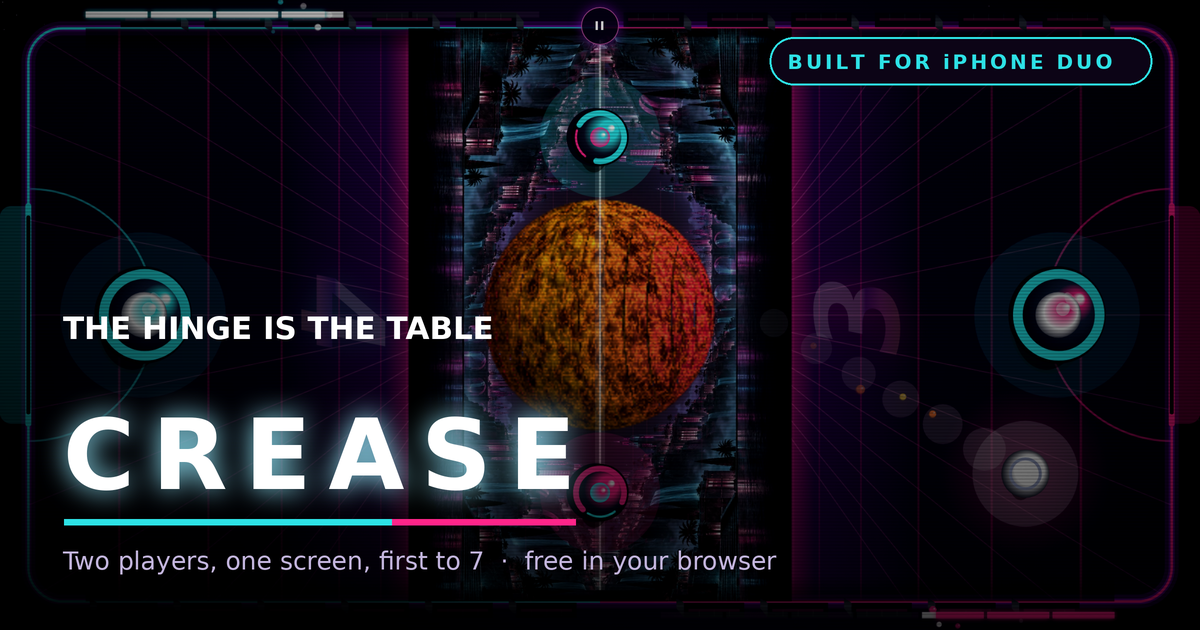
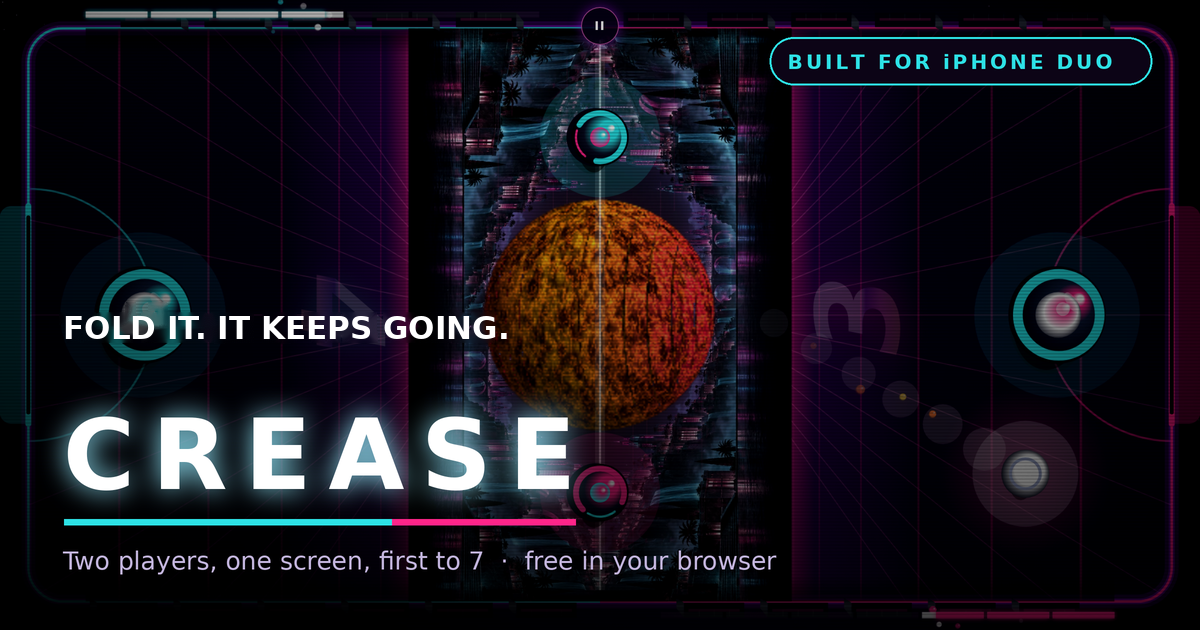
Remove "the hinge is the table" from the live site
That line is physically false: the hinge is a fold, not a table. It was in
the Google description, the share text, the share-card image, the app
manifest, the video sitemap and the FAQ.

Replaced with the launch wording already posted on X, Instagram, TikTok and
Facebook: open it, two players, one on each side; close it, you vs the CPU;
fold it mid-match and the game keeps going.

og.png: same image; only the headline changed to "FOLD IT. IT KEEPS GOING."

Claude-Session: https://claude.ai/code/session_01MWB9oQA4tP1N26JVwMRgtc

Changed region(s): [[0.0308, 0.4825, 0.4317, 0.5429]]

diff --git a/index.html b/index.html
@@ -8,10 +8,10 @@
 <meta name="apple-mobile-web-app-status-bar-style" content="black-translucent">
 <meta name="apple-mobile-web-app-title" content="CREASE">
 <meta name="theme-color" content="#07020f">
-<meta name="description" content="The hinge is the table. CREASE is free neon air hockey built fold-first for the iPhone Duo: one screen, two players, first to 7. Play solo, hand the phone over, or match online — in your browser, or add it to your home screen and play it like an app.">
+<meta name="description" content="Free neon air hockey for the iPhone Duo. Open it: full table, two players, one on each side. Close it: pocket table, you vs the CPU. Fold it mid-match and the game keeps going. First to 7. Play solo, hand the phone over, or match online — in your browser, or add it to your home screen and play it like an app.">
 <title>CREASE — The iPhone Duo Air Hockey Game</title>
 <meta property="og:title" content="CREASE — The iPhone Duo Air Hockey Game">
-<meta property="og:description" content="The hinge is the table. Free neon air hockey built fold-first for the iPhone Duo — two players, one screen, first to 7. Solo, pass-and-play, or online.">
+<meta property="og:description" content="Free neon air hockey for the iPhone Duo. Open it: two players, one on each side. Close it: you vs the CPU. Fold it mid-match and the game keeps going. First to 7.">
 <meta property="og:type" content="website">
 <meta property="og:url" content="https://prodbykctw-max.github.io/crease-iphone-duo/">
 <style>
@@ -167,13 +167,13 @@ button:focus-visible{outline:2px solid var(--p1);outline-offset:4px}
 <meta property="og:image:alt" content="CREASE neon air hockey table, the crease running down the middle of the screen">
 <meta name="twitter:card" content="summary_large_image">
 <meta name="twitter:title" content="CREASE — The iPhone Duo Air Hockey Game">
-<meta name="twitter:description" content="The hinge is the table. Free neon air hockey built fold-first for the iPhone Duo — two players, one screen, first to 7. Solo, pass-and-play, or online.">
+<meta name="twitter:description" content="Free neon air hockey for the iPhone Duo. Open it: two players, one on each side. Close it: you vs the CPU. Fold it mid-match and the game keeps going. First to 7.">
 <meta name="twitter:image" content="https://prodbykctw-max.github.io/crease-iphone-duo/og.png">
 <link rel="icon" href="favicon.ico" sizes="32x32">
 <link rel="icon" type="image/png" sizes="192x192" href="icon-192.png">
 <link rel="apple-touch-icon" sizes="180x180" href="apple-touch-icon.png">
 <link rel="manifest" href="manifest.webmanifest">
-<script type="application/ld+json">[{"@context": "https://schema.org", "@type": "VideoGame", "name": "CREASE", "alternateName": "CREASE — Free Two-Player Air Hockey", "url": "https://prodbykctw-max.github.io/crease-iphone-duo/", "image": "https://prodbykctw-max.github.io/crease-iphone-duo/og.png", "description": "CREASE is a free two-player neon air hockey game in your browser. One screen, two players, first to 7. Solo vs CPU in portrait, head-to-head in landscape. Built for foldable phones like the iPhone Duo by prodbyKCTW.", "genre": ["Arcade", "Sports"], "gamePlatform": ["Web browser", "iOS Safari", "Android Chrome"], "applicationCategory": "Game", "operatingSystem": "Any", "playMode": ["SinglePlayer", "MultiPlayer"], "numberOfPlayers": {"@type": "QuantitativeValue", "minValue": 1, "maxValue": 2}, "isAccessibleForFree": true, "offers": {"@type": "Offer", "price": "0", "priceCurrency": "USD"}, "author": {"@type": "Organization", "name": "prodbyKCTW", "url": "https://www.instagram.com/prodbykctw/", "founder": {"@type": "Person", "name": "Melvin D. Brown III"}}, "publisher": {"@type": "Organization", "name": "RARƎ AGENCY"}, "@id": "https://prodbykctw-max.github.io/crease-iphone-duo/#game", "datePublished": "2026-09-21", "inLanguage": "en-US", "screenshot": "https://prodbykctw-max.github.io/crease-iphone-duo/media/crease-fold-poster.jpg", "video": {"@id": "https://prodbykctw-max.github.io/crease-iphone-duo/#gameplay-video"}, "trailer": {"@id": "https://prodbykctw-max.github.io/crease-iphone-duo/#gameplay-video"}}, {"@context": "https://schema.org", "@type": "VideoObject", "@id": "https://prodbykctw-max.github.io/crease-iphone-duo/#gameplay-video", "name": "CREASE on the iPhone Duo — the hinge is the table", "description": "CREASE running fold-first on the iPhone Duo. Folded, the outer screen is a pocket table for one. Opened, the hinge becomes the centre line of a full air-hockey table with a player on each side, and the score carries across the fold.", "thumbnailUrl": ["https://prodbykctw-max.github.io/crease-iphone-duo/media/crease-fold-poster.jpg", "https://prodbykctw-max.github.io/crease-iphone-duo/og.png"], "contentUrl": "https://prodbykctw-max.github.io/crease-iphone-duo/media/crease-fold.mp4", "encodingFormat": "video/mp4", "width": 1920, "height": 1080, "duration": "PT11S", "uploadDate": "2026-10-05T00:00:00-04:00", "isFamilyFriendly": true, "inLanguage": "en-US", "publisher": {"@type": "Organization", "name": "prodbyKCTW", "url": "https://www.instagram.com/prodbykctw/"}, "creator": {"@type": "Person", "name": "Melvin D. Brown III"}, "about": {"@id": "https://prodbykctw-max.github.io/crease-iphone-duo/#game"}}, {"@context": "https://schema.org", "@type": "FAQPage", "mainEntity": [{"@type": "Question", "name": "What is CREASE?", "acceptedAnswer": {"@type": "Answer", "text": "A free two-player neon air hockey game that runs in your browser — one screen, two players, first to 7. Solo vs CPU in portrait, head-to-head in landscape."}}, {"@type": "Question", "name": "Is CREASE free?", "acceptedAnswer": {"@type": "Answer", "text": "Yes. No download, no account, no payment."}}, {"@type": "Question", "name": "Can two people play on one phone?", "acceptedAnswer": {"@type": "Answer", "text": "Yes. Turn the phone to landscape; each player controls the paddle on their half of the screen."}}, {"@type": "Question", "name": "Does CREASE work on iPhone?", "acceptedAnswer": {"@type": "Answer", "text": "Yes — in Safari and as a home-screen app (Share → Add to Home Screen). It also runs in Android Chrome and desktop browsers."}}, {"@type": "Question", "name": "What is the iPhone Duo connection?", "acceptedAnswer": {"@type": "Answer", "text": "CREASE is built fold-first for Apple's foldable. The hinge is the center line of the table: folded, the outer screen is a pocket table for solo play; opened, the inner screen becomes a full table with one player on each side. Fold or unfold mid-match and the game carries your score across."}}, {"@type": "Question", "name": "Can I play CREASE online against other people?", "acceptedAnswer": {"@type": "Answer", "text": "Yes. Open Play online and tap QUICK MATCH to be paired with whoever else is looking for a game, or send a friend a room code to play them directly. It is free and runs in the browser with no account."}}, {"@type": "Question", "name": "What are SMASH and BUMP?", "acceptedAnswer": {"@type": "Answer", "text": "SMASH is flicking your paddle hard into the puck to speed it up. BUMP is bouncing the puck off the gold bumpers on the crease; scoring off one is a BANK SHOT."}}, {"@type": "Question", "name": "Who made CREASE?", "acceptedAnswer": {"@type": "Answer", "text": "prodbyKCTW — Melvin D. Brown III, an independent developer and producer in the Atlanta area, co-founder of RARƎ AGENCY."}}]}]</script>
+<script type="application/ld+json">[{"@context": "https://schema.org", "@type": "VideoGame", "name": "CREASE", "alternateName": "CREASE — Free Two-Player Air Hockey", "url": "https://prodbykctw-max.github.io/crease-iphone-duo/", "image": "https://prodbykctw-max.github.io/crease-iphone-duo/og.png", "description": "CREASE is a free two-player neon air hockey game in your browser. One screen, two players, first to 7. Solo vs CPU in portrait, head-to-head in landscape. Built for foldable phones like the iPhone Duo by prodbyKCTW.", "genre": ["Arcade", "Sports"], "gamePlatform": ["Web browser", "iOS Safari", "Android Chrome"], "applicationCategory": "Game", "operatingSystem": "Any", "playMode": ["SinglePlayer", "MultiPlayer"], "numberOfPlayers": {"@type": "QuantitativeValue", "minValue": 1, "maxValue": 2}, "isAccessibleForFree": true, "offers": {"@type": "Offer", "price": "0", "priceCurrency": "USD"}, "author": {"@type": "Organization", "name": "prodbyKCTW", "url": "https://www.instagram.com/prodbykctw/", "founder": {"@type": "Person", "name": "Melvin D. Brown III"}}, "publisher": {"@type": "Organization", "name": "RARƎ AGENCY"}, "@id": "https://prodbykctw-max.github.io/crease-iphone-duo/#game", "datePublished": "2026-09-21", "inLanguage": "en-US", "screenshot": "https://prodbykctw-max.github.io/crease-iphone-duo/media/crease-fold-poster.jpg", "video": {"@id": "https://prodbykctw-max.github.io/crease-iphone-duo/#gameplay-video"}, "trailer": {"@id": "https://prodbykctw-max.github.io/crease-iphone-duo/#gameplay-video"}}, {"@context": "https://schema.org", "@type": "VideoObject", "@id": "https://prodbykctw-max.github.io/crease-iphone-duo/#gameplay-video", "name": "CREASE — fold it mid-match and the game keeps going", "description": "CREASE gameplay. Closed, it is a pocket table: you vs the CPU. Opened, it is a full table with a player on each side. Fold it mid-match and the game keeps going, score and all.", "thumbnailUrl": ["https://prodbykctw-max.github.io/crease-iphone-duo/media/crease-fold-poster.jpg", "https://prodbykctw-max.github.io/crease-iphone-duo/og.png"], "contentUrl": "https://prodbykctw-max.github.io/crease-iphone-duo/media/crease-fold.mp4", "encodingFormat": "video/mp4", "width": 1920, "height": 1080, "duration": "PT11S", "uploadDate": "2026-10-05T00:00:00-04:00", "isFamilyFriendly": true, "inLanguage": "en-US", "publisher": {"@type": "Organization", "name": "prodbyKCTW", "url": "https://www.instagram.com/prodbykctw/"}, "creator": {"@type": "Person", "name": "Melvin D. Brown III"}, "about": {"@id": "https://prodbykctw-max.github.io/crease-iphone-duo/#game"}}, {"@context": "https://schema.org", "@type": "FAQPage", "mainEntity": [{"@type": "Question", "name": "What is CREASE?", "acceptedAnswer": {"@type": "Answer", "text": "A free two-player neon air hockey game that runs in your browser — one screen, two players, first to 7. Solo vs CPU in portrait, head-to-head in landscape."}}, {"@type": "Question", "name": "Is CREASE free?", "acceptedAnswer": {"@type": "Answer", "text": "Yes. No download, no account, no payment."}}, {"@type": "Question", "name": "Can two people play on one phone?", "acceptedAnswer": {"@type": "Answer", "text": "Yes. Turn the phone to landscape; each player controls the paddle on their half of the screen."}}, {"@type": "Question", "name": "Does CREASE work on iPhone?", "acceptedAnswer": {"@type": "Answer", "text": "Yes — in Safari and as a home-screen app (Share → Add to Home Screen). It also runs in Android Chrome and desktop browsers."}}, {"@type": "Question", "name": "What is the iPhone Duo connection?", "acceptedAnswer": {"@type": "Answer", "text": "CREASE is made for Apple's foldable. Closed, the outer screen is a pocket table: you vs the CPU. Opened, the inner screen is a full table with one player on each side, and the center line runs down the fold. Fold or unfold mid-match and the game keeps going, score and all."}}, {"@type": "Question", "name": "Can I play CREASE online against other people?", "acceptedAnswer": {"@type": "Answer", "text": "Yes. Open Play online and tap QUICK MATCH to be paired with whoever else is looking for a game, or send a friend a room code to play them directly. It is free and runs in the browser with no account."}}, {"@type": "Question", "name": "What are SMASH and BUMP?", "acceptedAnswer": {"@type": "Answer", "text": "SMASH is flicking your paddle hard into the puck to speed it up. BUMP is bouncing the puck off the gold bumpers on the crease; scoring off one is a BANK SHOT."}}, {"@type": "Question", "name": "Who made CREASE?", "acceptedAnswer": {"@type": "Answer", "text": "prodbyKCTW — Melvin D. Brown III, an independent developer and producer in the Atlanta area, co-founder of RARƎ AGENCY."}}]}]</script>
 </head>
 <body>
 <canvas id="cv" aria-label="CREASE game table"></canvas>
@@ -3114,6 +3114,6 @@ window.__crease = {
 };
 })();
 </script>
-<noscript><section id="about-crease"><h2>CREASE — free two-player air hockey</h2><p>CREASE is a free two-player neon air hockey game in your browser. One screen, two players, first to 7. Solo vs CPU in portrait, head-to-head in landscape. Built for foldable phones like the iPhone Duo by prodbyKCTW.</p><h3>FAQ</h3><p><strong>What is CREASE?</strong><br>A free two-player neon air hockey game that runs in your browser — one screen, two players, first to 7. Solo vs CPU in portrait, head-to-head in landscape.</p><p><strong>Is CREASE free?</strong><br>Yes. No download, no account, no payment.</p><p><strong>Can two people play on one phone?</strong><br>Yes. Turn the phone to landscape; each player controls the paddle on their half of the screen.</p><p><strong>Does CREASE work on iPhone?</strong><br>Yes — in Safari and as a home-screen app (Share → Add to Home Screen). It also runs in Android Chrome and desktop browsers.</p><p><strong>What is the iPhone Duo connection?</strong><br>CREASE is built fold-first for Apple&#x27;s foldable. The hinge is the center line of the table: folded, the outer screen is a pocket table for solo play; opened, the inner screen becomes a full table with one player on each side. Fold or unfold mid-match and your score carries across.</p><p><strong>Can I play online against other people?</strong><br>Yes. Open Play online and tap QUICK MATCH to be paired with whoever else is looking for a game, or send a friend a room code to play them directly. Free, no account.</p><p><strong>What are SMASH and BUMP?</strong><br>SMASH is flicking your paddle hard into the puck to speed it up. BUMP is bouncing the puck off the gold bumpers on the crease; scoring off one is a BANK SHOT.</p><p><strong>Who made CREASE?</strong><br>prodbyKCTW — Melvin D. Brown III, an independent developer and producer in the Atlanta area, co-founder of RARƎ AGENCY.</p><p><a href="https://prodbykctw-max.github.io/crease-iphone-duo/llms.txt">llms.txt</a> · <a href="https://github.com/prodbykctw-max/crease-iphone-duo">Source</a></p></section></noscript>
+<noscript><section id="about-crease"><h2>CREASE — free two-player air hockey</h2><p>CREASE is a free two-player neon air hockey game in your browser. One screen, two players, first to 7. Solo vs CPU in portrait, head-to-head in landscape. Built for foldable phones like the iPhone Duo by prodbyKCTW.</p><h3>FAQ</h3><p><strong>What is CREASE?</strong><br>A free two-player neon air hockey game that runs in your browser — one screen, two players, first to 7. Solo vs CPU in portrait, head-to-head in landscape.</p><p><strong>Is CREASE free?</strong><br>Yes. No download, no account, no payment.</p><p><strong>Can two people play on one phone?</strong><br>Yes. Turn the phone to landscape; each player controls the paddle on their half of the screen.</p><p><strong>Does CREASE work on iPhone?</strong><br>Yes — in Safari and as a home-screen app (Share → Add to Home Screen). It also runs in Android Chrome and desktop browsers.</p><p><strong>What is the iPhone Duo connection?</strong><br>CREASE is made for Apple&#x27;s foldable. Closed, the outer screen is a pocket table: you vs the CPU. Opened, the inner screen is a full table with one player on each side, and the center line runs down the fold. Fold or unfold mid-match and the game keeps going, score and all.</p><p><strong>Can I play online against other people?</strong><br>Yes. Open Play online and tap QUICK MATCH to be paired with whoever else is looking for a game, or send a friend a room code to play them directly. Free, no account.</p><p><strong>What are SMASH and BUMP?</strong><br>SMASH is flicking your paddle hard into the puck to speed it up. BUMP is bouncing the puck off the gold bumpers on the crease; scoring off one is a BANK SHOT.</p><p><strong>Who made CREASE?</strong><br>prodbyKCTW — Melvin D. Brown III, an independent developer and producer in the Atlanta area, co-founder of RARƎ AGENCY.</p><p><a href="https://prodbykctw-max.github.io/crease-iphone-duo/llms.txt">llms.txt</a> · <a href="https://github.com/prodbykctw-max/crease-iphone-duo">Source</a></p></section></noscript>
 </body>
 </html>
